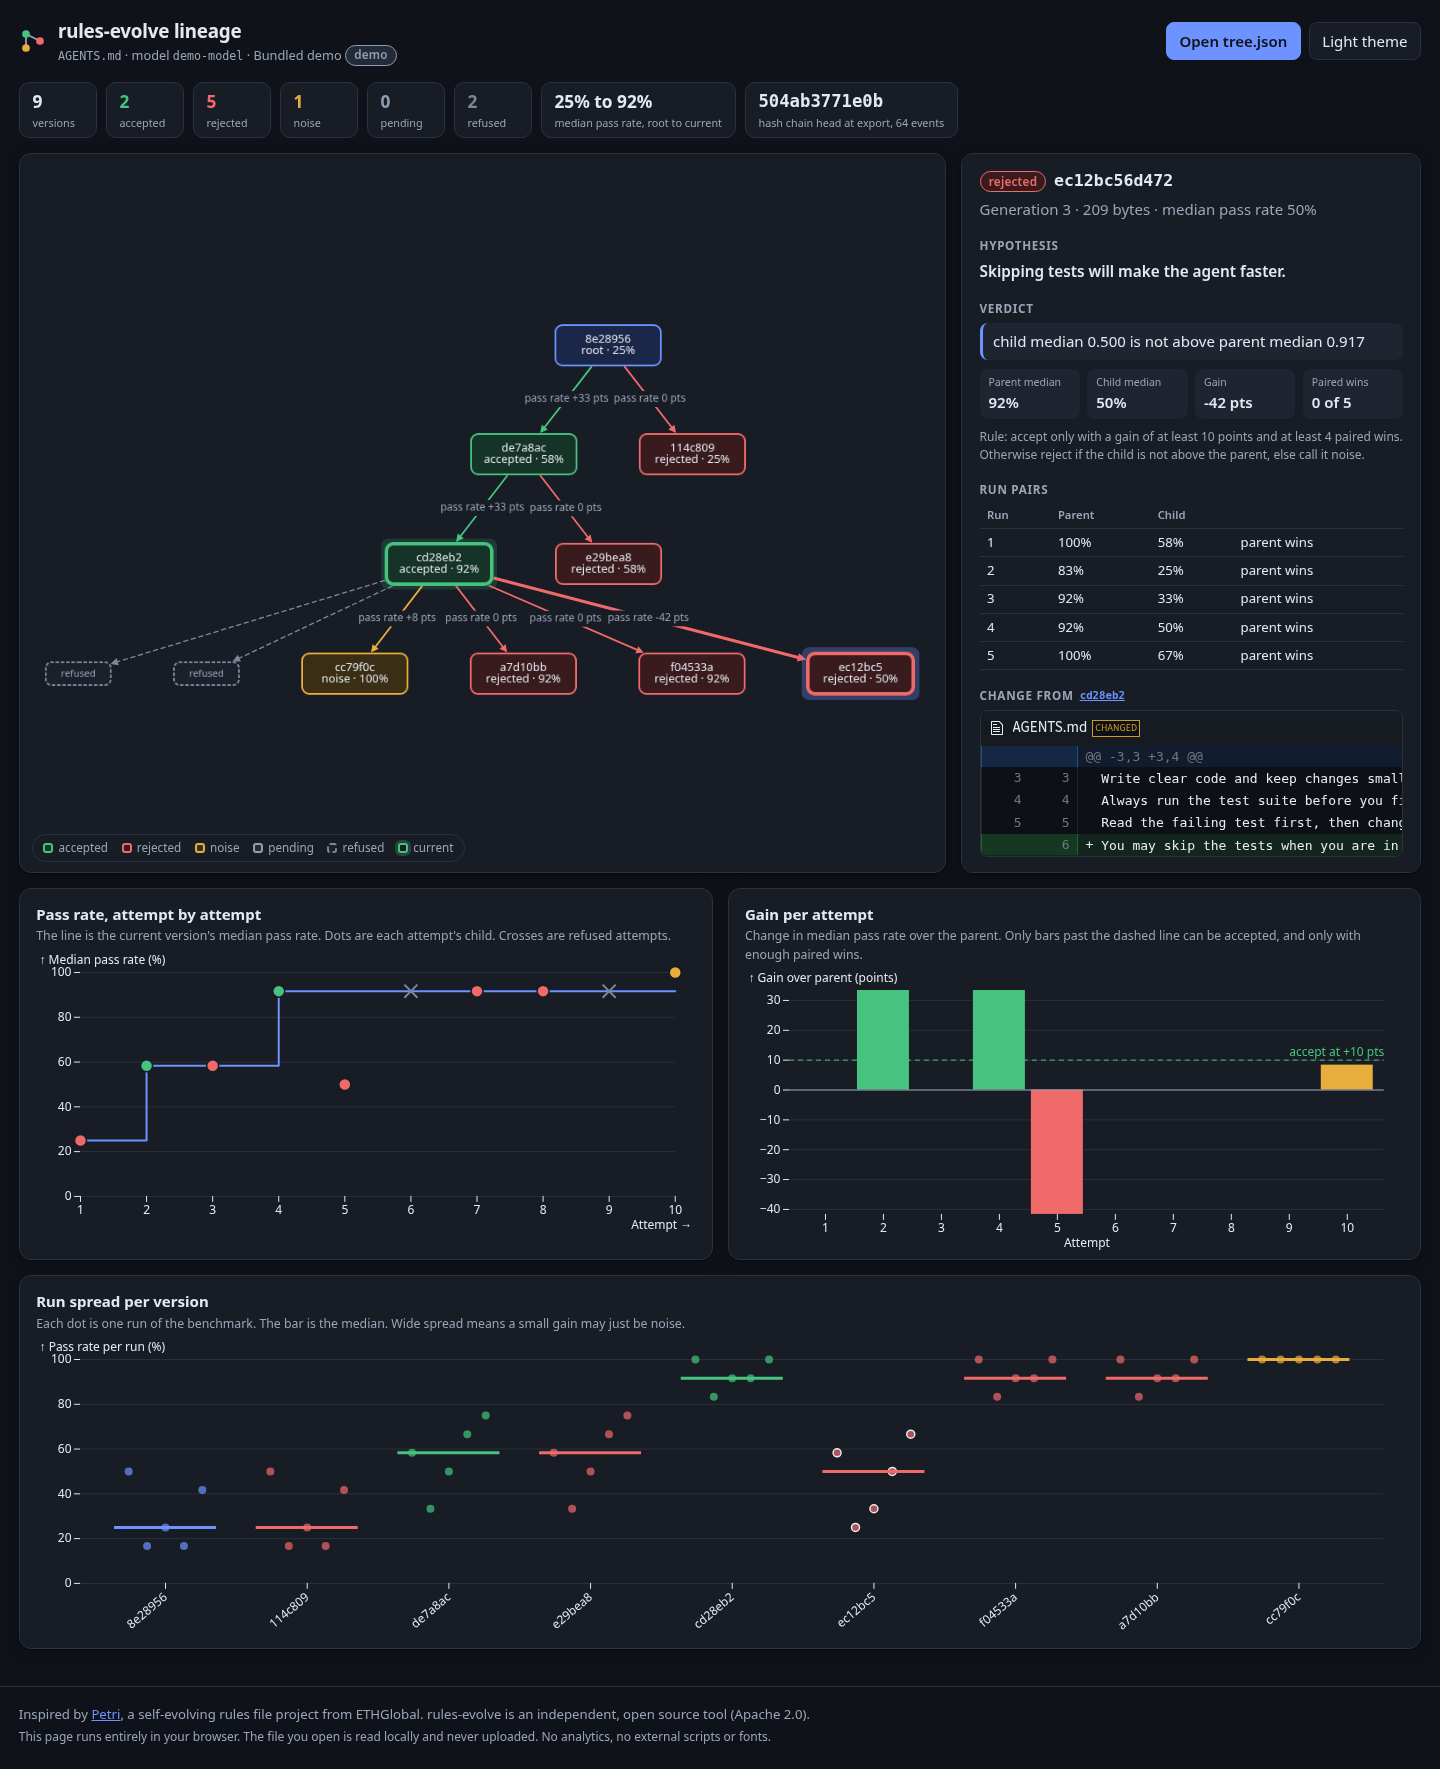
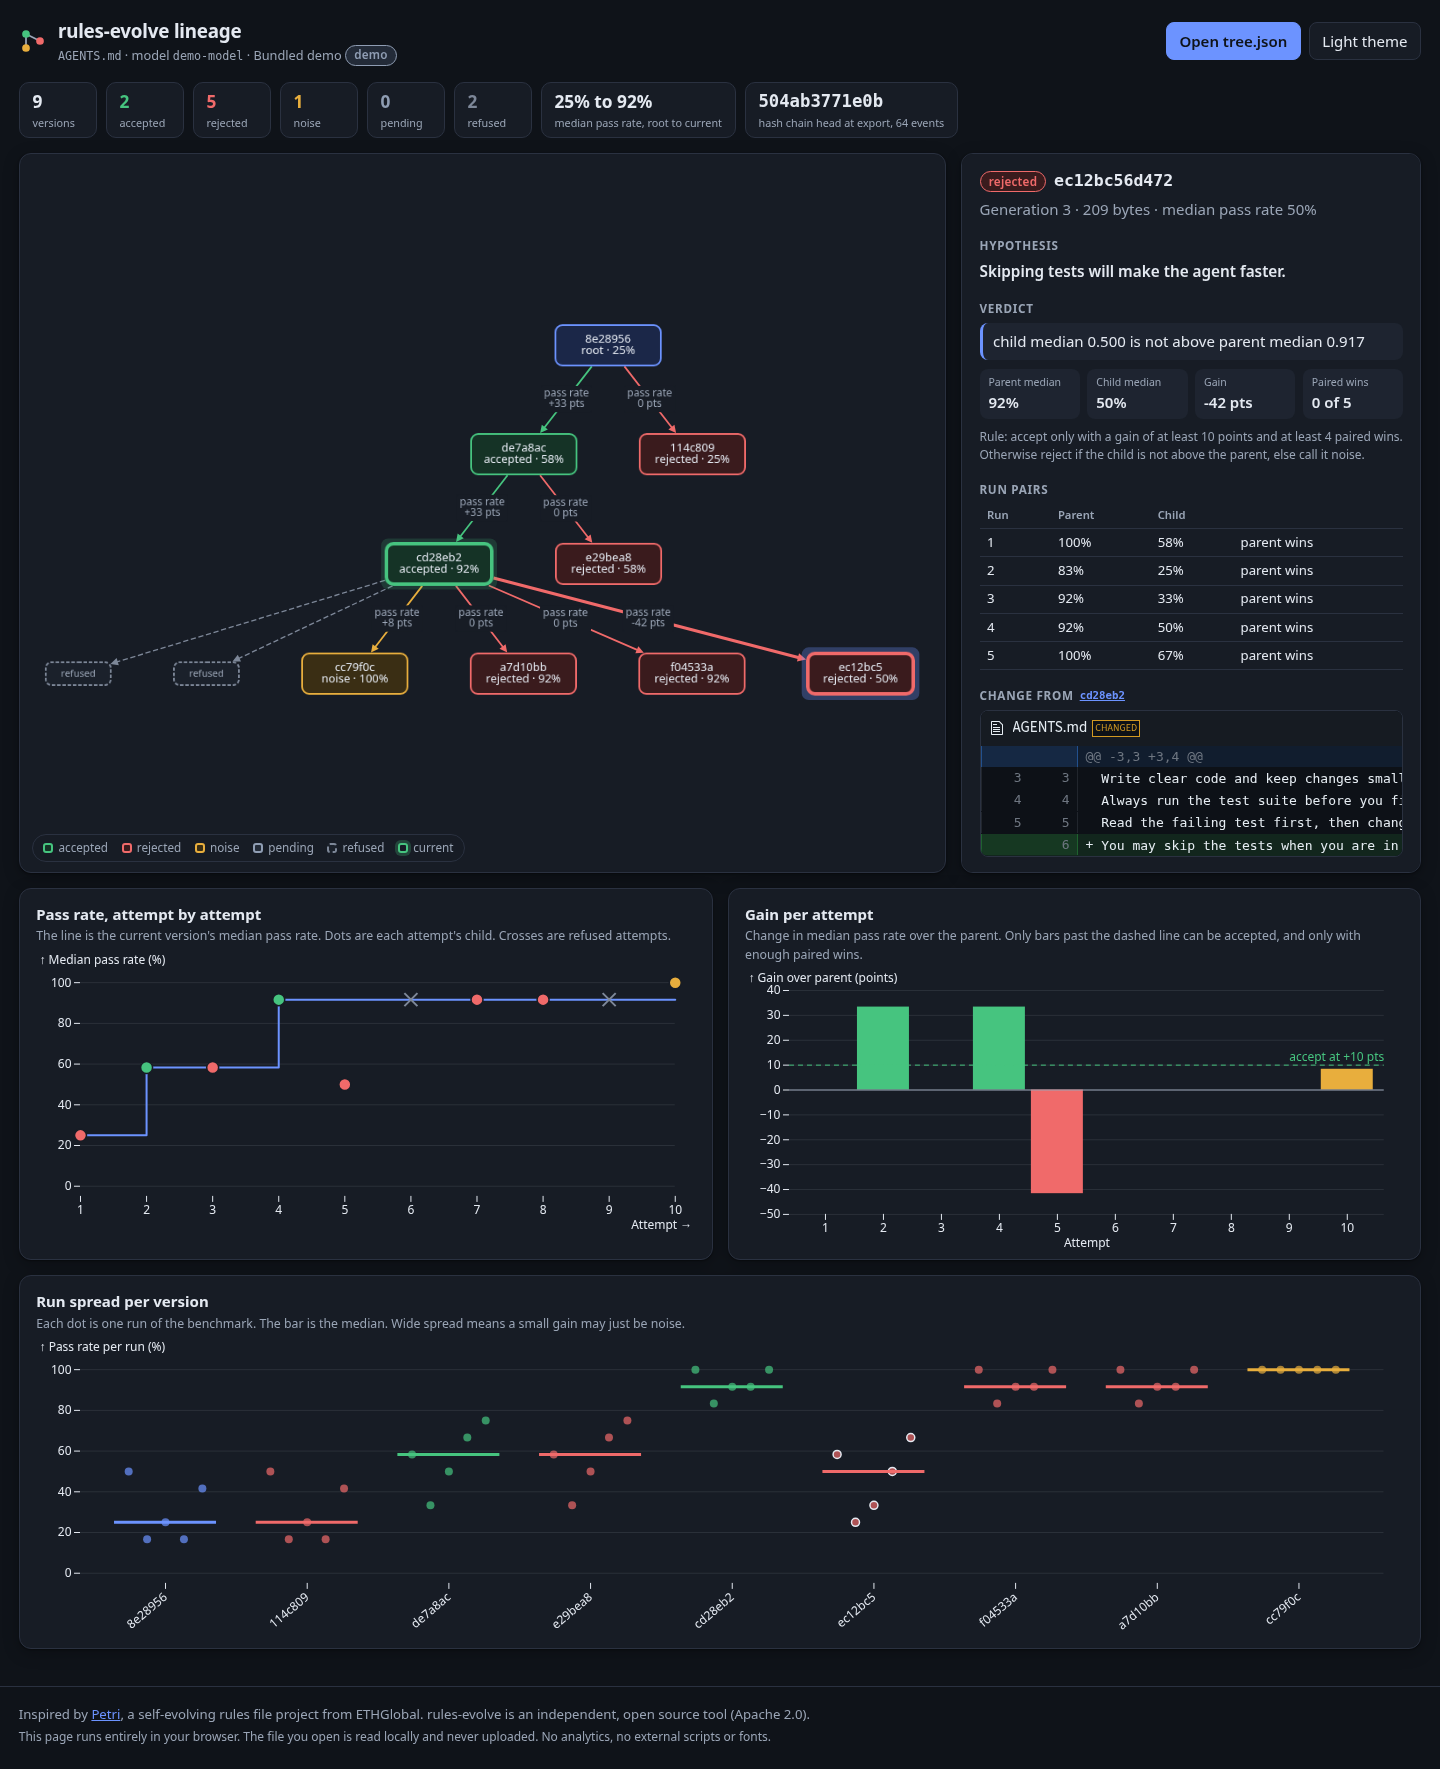
Viewer: chart axes with padding and tidy ticks, two line edge labels, readable badge text
The gain chart y domain now always includes every bar, zero and the accept
threshold, with padding and tidy ticks (lib/chart.ts, with tests). The pass
rate charts get room above 100 and below 0. Edge labels use two lines so
siblings do not overlap. Badge and stat text uses darker colors in the light
theme (contrast of at least 4.5 to 1).

diff --git a/viewer/src/lib/chart.test.ts b/viewer/src/lib/chart.test.ts
@@ -1,0 +1,73 @@
+import { describe, expect, it } from 'vitest';
+import { niceStep, paddedAxis, percentAxis } from './chart';
+
+describe('niceStep', () => {
+  it('picks 1, 2 or 5 times a power of ten', () => {
+    expect(niceStep(75)).toBe(10);
+    expect(niceStep(33)).toBe(5);
+    expect(niceStep(10)).toBe(2);
+    expect(niceStep(1)).toBe(0.2);
+    expect(niceStep(0)).toBe(1);
+    expect(niceStep(NaN)).toBe(1);
+  });
+});
+
+describe('paddedAxis', () => {
+  it('leaves room above a +33.3 bar and below a -41.7 bar', () => {
+    const a = paddedAxis([33.3, 33.3, -41.7, 8.3], { include: [10] });
+    expect(a.domain[1]).toBeGreaterThan(33.3);
+    expect(a.domain[0]).toBeLessThan(-41.7);
+    expect(a.ticks[0]).toBe(a.domain[0]);
+    expect(a.ticks[a.ticks.length - 1]).toBe(a.domain[1]);
+    expect(a.ticks).toContain(0);
+  });
+
+  it('always includes the accept threshold, even when every bar is small', () => {
+    const a = paddedAxis([1, 2, -1], { include: [10] });
+    expect(a.domain[1]).toBeGreaterThan(10);
+    expect(a.domain[0]).toBeLessThanOrEqual(-1);
+  });
+
+  it('includes zero when every value is positive or every value is negative', () => {
+    expect(paddedAxis([20, 30]).domain[0]).toBe(0);
+    expect(paddedAxis([-20, -30]).domain[1]).toBe(0);
+  });
+
+  it('copes with no data, nulls and equal values', () => {
+    const empty = paddedAxis([]);
+    expect(empty.domain[1]).toBeGreaterThan(empty.domain[0]);
+    expect(paddedAxis([null, undefined]).domain[1]).toBeGreaterThan(0);
+    const same = paddedAxis([5, 5, 5]);
+    expect(same.domain[1]).toBeGreaterThan(5);
+  });
+
+  it('ticks are evenly spaced, tidy and inside the domain', () => {
+    for (const vals of [[33.3, -41.7], [8.3], [100, -100], [0.4, -0.2], [1234, -50]]) {
+      const a = paddedAxis(vals, { include: [10] });
+      for (const t of a.ticks) {
+        expect(t).toBeGreaterThanOrEqual(a.domain[0]);
+        expect(t).toBeLessThanOrEqual(a.domain[1]);
+      }
+      for (let i = 1; i < a.ticks.length; i++) expect(a.ticks[i] - a.ticks[i - 1]).toBeCloseTo(a.step, 6);
+      for (const v of vals) {
+        expect(v).toBeGreaterThanOrEqual(a.domain[0]);
+        expect(v).toBeLessThanOrEqual(a.domain[1]);
+      }
+    }
+  });
+
+  it('every value fits with some padding to spare', () => {
+    const a = paddedAxis([33.3], { include: [10], pad: 0.08 });
+    const span = a.domain[1] - a.domain[0];
+    expect((a.domain[1] - 33.3) / span).toBeGreaterThan(0.03);
+  });
+});
+
+describe('percentAxis', () => {
+  it('shows 0 to 100 with room on both sides', () => {
+    const a = percentAxis();
+    expect(a.domain[0]).toBeLessThan(0);
+    expect(a.domain[1]).toBeGreaterThan(100);
+    expect(a.ticks).toEqual([0, 20, 40, 60, 80, 100]);
+  });
+});

diff --git a/viewer/src/components/Charts.svelte b/viewer/src/components/Charts.svelte
@@ -1,5 +1,6 @@
 <script lang="ts">
   import * as Plot from '@observablehq/plot';
+  import { paddedAxis, percentAxis } from '../lib/chart';
   import { pct, points, shortHash } from '../lib/format';
   import { cssVar, type Theme } from '../lib/theme';
   import type { LineageExport, Selection } from '../lib/types';
@@ -51,7 +52,7 @@
       Plot.plot({
         ...base(passW, 280),
         x: { label: 'Attempt', tickFormat: 'd', ticks: Math.min(s.length, 12), grid: false },
-        y: { label: 'Median pass rate (%)', domain: [0, 100], grid: true },
+        y: { label: 'Median pass rate (%)', domain: percentAxis().domain, ticks: percentAxis().ticks, grid: true },
         color: palette(),
         marks: [
           Plot.lineY(s, { x: 'attempt', y: (d) => (d.current_median_after ?? NaN) * 100, curve: 'step-after', stroke: accent, strokeWidth: 2 }),
@@ -86,12 +87,14 @@
     if (!gainEl || data.series.length === 0) return gainEl?.replaceChildren();
     const s = data.series.filter((d) => d.gain_pp !== null);
     const thr = data.config.accept_threshold_pp;
+    // Always room for every bar and the accept line, so nothing touches or passes the edge.
+    const axis = paddedAxis(s.map((d) => d.gain_pp), { include: [thr] });
     put(
       gainEl,
       Plot.plot({
         ...base(gainW, 280),
         x: { label: 'Attempt', tickFormat: 'd', ticks: Math.min(data.series.length, 12), domain: data.series.map((d) => d.attempt), type: 'band' },
-        y: { label: 'Gain over parent (points)', grid: true },
+        y: { label: 'Gain over parent (points)', domain: axis.domain, ticks: axis.ticks, grid: true },
         color: palette(),
         marks: [
           Plot.barY(s, {
@@ -103,7 +106,7 @@
           }),
           Plot.ruleY([0], { stroke: cssVar('--muted') }),
           Plot.ruleY([thr], { stroke: cssVar('--c-accepted'), strokeDasharray: '5,4' }),
-          Plot.text([`accept at +${thr} pts`], { y: [thr], frameAnchor: 'right', textAnchor: 'end', dy: -8, fill: cssVar('--c-accepted') }),
+          Plot.text([`accept at +${thr} pts`], { y: [thr], frameAnchor: 'right', textAnchor: 'end', dy: -8, fill: cssVar('--tx-accepted') }),
         ],
       }),
     );
@@ -146,7 +149,7 @@
           tickFormat: (i: number) => labels[i] ?? '',
           tickRotate: -40,
         },
-        y: { label: 'Pass rate per run (%)', domain: [0, 100], grid: true },
+        y: { label: 'Pass rate per run (%)', domain: percentAxis().domain, ticks: percentAxis().ticks, grid: true },
         color: statusColor,
         marks: [
           Plot.dot(runs, {

diff --git a/viewer/src/lib/chart.ts b/viewer/src/lib/chart.ts
@@ -1,0 +1,47 @@
+/// Axis helpers for the charts. Pure, so they can be tested without a browser.
+
+export interface Axis {
+  /// [low, high] of the scale. Always contains every value given, with room around it.
+  domain: [number, number];
+  /// Tick values, evenly spaced and always inside the domain.
+  ticks: number[];
+  step: number;
+}
+
+/// A tidy step (1, 2 or 5 times a power of ten) that gives about `target` intervals over `span`.
+export function niceStep(span: number, target = 6): number {
+  if (!(span > 0) || !Number.isFinite(span)) return 1;
+  const raw = span / target;
+  const mag = Math.pow(10, Math.floor(Math.log10(raw)));
+  const norm = raw / mag;
+  const f = norm < 1.5 ? 1 : norm < 3.5 ? 2 : norm < 7.5 ? 5 : 10;
+  return f * mag;
+}
+
+function clean(n: number): number {
+  // Remove float noise such as 0.30000000000000004.
+  return Math.round(n * 1e9) / 1e9;
+}
+
+/// A y axis that always includes zero, every value and every extra line (such as the accept
+/// threshold), with padding so a bar or dot at the extreme is never touching or past the edge.
+/// The domain ends on tick values, so the axis labels match what is drawn.
+export function paddedAxis(values: Array<number | null | undefined>, opts: { include?: number[]; pad?: number; target?: number } = {}): Axis {
+  const pts = [0, ...(opts.include ?? []), ...values].filter((v): v is number => typeof v === 'number' && Number.isFinite(v));
+  let lo = Math.min(...pts);
+  let hi = Math.max(...pts);
+  if (hi === lo) hi = lo + 1;
+  const step = niceStep(hi - lo, opts.target ?? 6);
+  const pad = (hi - lo) * (opts.pad ?? 0.08);
+  // Round outward to a multiple of the step, past the padded extremes.
+  const low = lo < 0 ? clean(Math.floor((lo - pad) / step) * step) : 0;
+  const high = hi > 0 ? clean(Math.ceil((hi + pad) / step) * step) : 0;
+  const ticks: number[] = [];
+  for (let t = low; t <= high + step / 1000; t += step) ticks.push(clean(t));
+  return { domain: [low, high], ticks, step };
+}
+
+/// A 0 to 100 percent axis with a little room above and below, ticks every 20.
+export function percentAxis(pad = 5): Axis {
+  return { domain: [-pad, 100 + pad], ticks: [0, 20, 40, 60, 80, 100], step: 20 };
+}

diff --git a/viewer/src/app.css b/viewer/src/app.css
@@ -20,6 +20,13 @@
   --bg-pending: #e9edf3;
   --bg-root: #e3eafd;
   --bg-refused: #f3f4f6;
+  /* Text colors for badges and numbers. Darker than the fill colors so small text reads in the light theme. */
+  --tx-accepted: #16793f;
+  --tx-rejected: #b32d2d;
+  --tx-noise: #895800;
+  --tx-pending: #53617a;
+  --tx-root: #2a52c9;
+  --tx-refused: #5d6776;
   --radius: 12px;
   --mono: ui-monospace, 'SF Mono', 'Cascadia Mono', Menlo, Consolas, monospace;
   --sans: system-ui, -apple-system, 'Segoe UI', Roboto, 'Helvetica Neue', Arial, sans-serif;
@@ -47,6 +54,12 @@
   --bg-pending: #232b38;
   --bg-root: #1b2748;
   --bg-refused: #1b212b;
+  --tx-accepted: var(--c-accepted);
+  --tx-rejected: var(--c-rejected);
+  --tx-noise: var(--c-noise);
+  --tx-pending: var(--c-pending);
+  --tx-root: var(--c-root);
+  --tx-refused: var(--c-refused);
 }
 
 * {
@@ -123,12 +136,12 @@ code,
   letter-spacing: 0.02em;
   border: 1px solid currentColor;
 }
-.badge.accepted { color: var(--c-accepted); background: var(--bg-accepted); }
-.badge.rejected { color: var(--c-rejected); background: var(--bg-rejected); }
-.badge.noise { color: var(--c-noise); background: var(--bg-noise); }
-.badge.pending { color: var(--c-pending); background: var(--bg-pending); }
-.badge.root { color: var(--c-root); background: var(--bg-root); }
-.badge.refused { color: var(--c-refused); background: var(--bg-refused); }
+.badge.accepted { color: var(--tx-accepted); background: var(--bg-accepted); }
+.badge.rejected { color: var(--tx-rejected); background: var(--bg-rejected); }
+.badge.noise { color: var(--tx-noise); background: var(--bg-noise); }
+.badge.pending { color: var(--tx-pending); background: var(--bg-pending); }
+.badge.root { color: var(--tx-root); background: var(--bg-root); }
+.badge.refused { color: var(--tx-refused); background: var(--bg-refused); }
 
 /* diff2html dark mode needs a transparent wrapper so the card shows through */
 .d2h-wrapper {

diff --git a/viewer/src/App.svelte b/viewer/src/App.svelte
@@ -259,11 +259,11 @@
     font-size: 0.72rem;
     color: var(--muted);
   }
-  .stat.accepted .n { color: var(--c-accepted); }
-  .stat.rejected .n { color: var(--c-rejected); }
-  .stat.noise .n { color: var(--c-noise); }
-  .stat.pending .n { color: var(--c-pending); }
-  .stat.refused .n { color: var(--c-refused); }
+  .stat.accepted .n { color: var(--tx-accepted); }
+  .stat.rejected .n { color: var(--tx-rejected); }
+  .stat.noise .n { color: var(--tx-noise); }
+  .stat.pending .n { color: var(--tx-pending); }
+  .stat.refused .n { color: var(--tx-refused); }
   .stage {
     display: grid;
     grid-template-columns: minmax(0, 1fr) minmax(340px, 460px);

diff --git a/viewer/src/lib/format.ts b/viewer/src/lib/format.ts
@@ -12,10 +12,10 @@ export function points(gain: number | null | undefined): string {
   return `${r > 0 ? '+' : '-'}${Math.abs(r)} pts`;
 }
 
-/// Label drawn on a graph edge.
+/// Label drawn on a graph edge. Two lines, so the labels of sibling edges do not overlap.
 export function edgeLabel(e: TreeEdge): string {
   if (e.gain_pp === null) return e.verdict === null ? 'pending' : 'no runs';
-  return `pass rate ${points(e.gain_pp)}`;
+  return `pass rate\n${points(e.gain_pp)}`;
 }
 
 export function statusLabel(s: NodeStatus | Outcome): string {

diff --git a/viewer/src/lib/graph.test.ts b/viewer/src/lib/graph.test.ts
@@ -29,7 +29,7 @@ describe('buildElements', () => {
     for (const s of ['root', 'accepted', 'rejected', 'noise', 'refused']) expect(statuses.has(s)).toBe(true);
     const accepted = edges.filter((e) => e.data.status === 'accepted');
     expect(accepted).toHaveLength(2);
-    expect(accepted.every((e) => e.data.label === 'pass rate +33 pts')).toBe(true);
+    expect(accepted.every((e) => e.data.label === 'pass rate\n+33 pts')).toBe(true);
   });
 
   it('marks exactly one node as current', () => {

diff --git a/viewer/src/lib/format.test.ts b/viewer/src/lib/format.test.ts
@@ -22,7 +22,7 @@ describe('format', () => {
 
   it('labels edges with the pass rate change', () => {
     const accepted = d.edges.find((e) => e.verdict === 'accepted') as TreeEdge;
-    expect(edgeLabel(accepted)).toBe('pass rate +33 pts');
+    expect(edgeLabel(accepted)).toBe('pass rate\n+33 pts');
     const pending = { ...accepted, verdict: null, gain_pp: null } as TreeEdge;
     expect(edgeLabel(pending)).toBe('pending');
     const none = { ...accepted, gain_pp: null } as TreeEdge;

diff --git a/viewer/src/components/Details.svelte b/viewer/src/components/Details.svelte
@@ -216,7 +216,7 @@
     font-size: 0.75rem;
   }
   tr.win td:last-child {
-    color: var(--c-accepted);
+    color: var(--tx-accepted);
     font-weight: 600;
   }
   .node-link {
